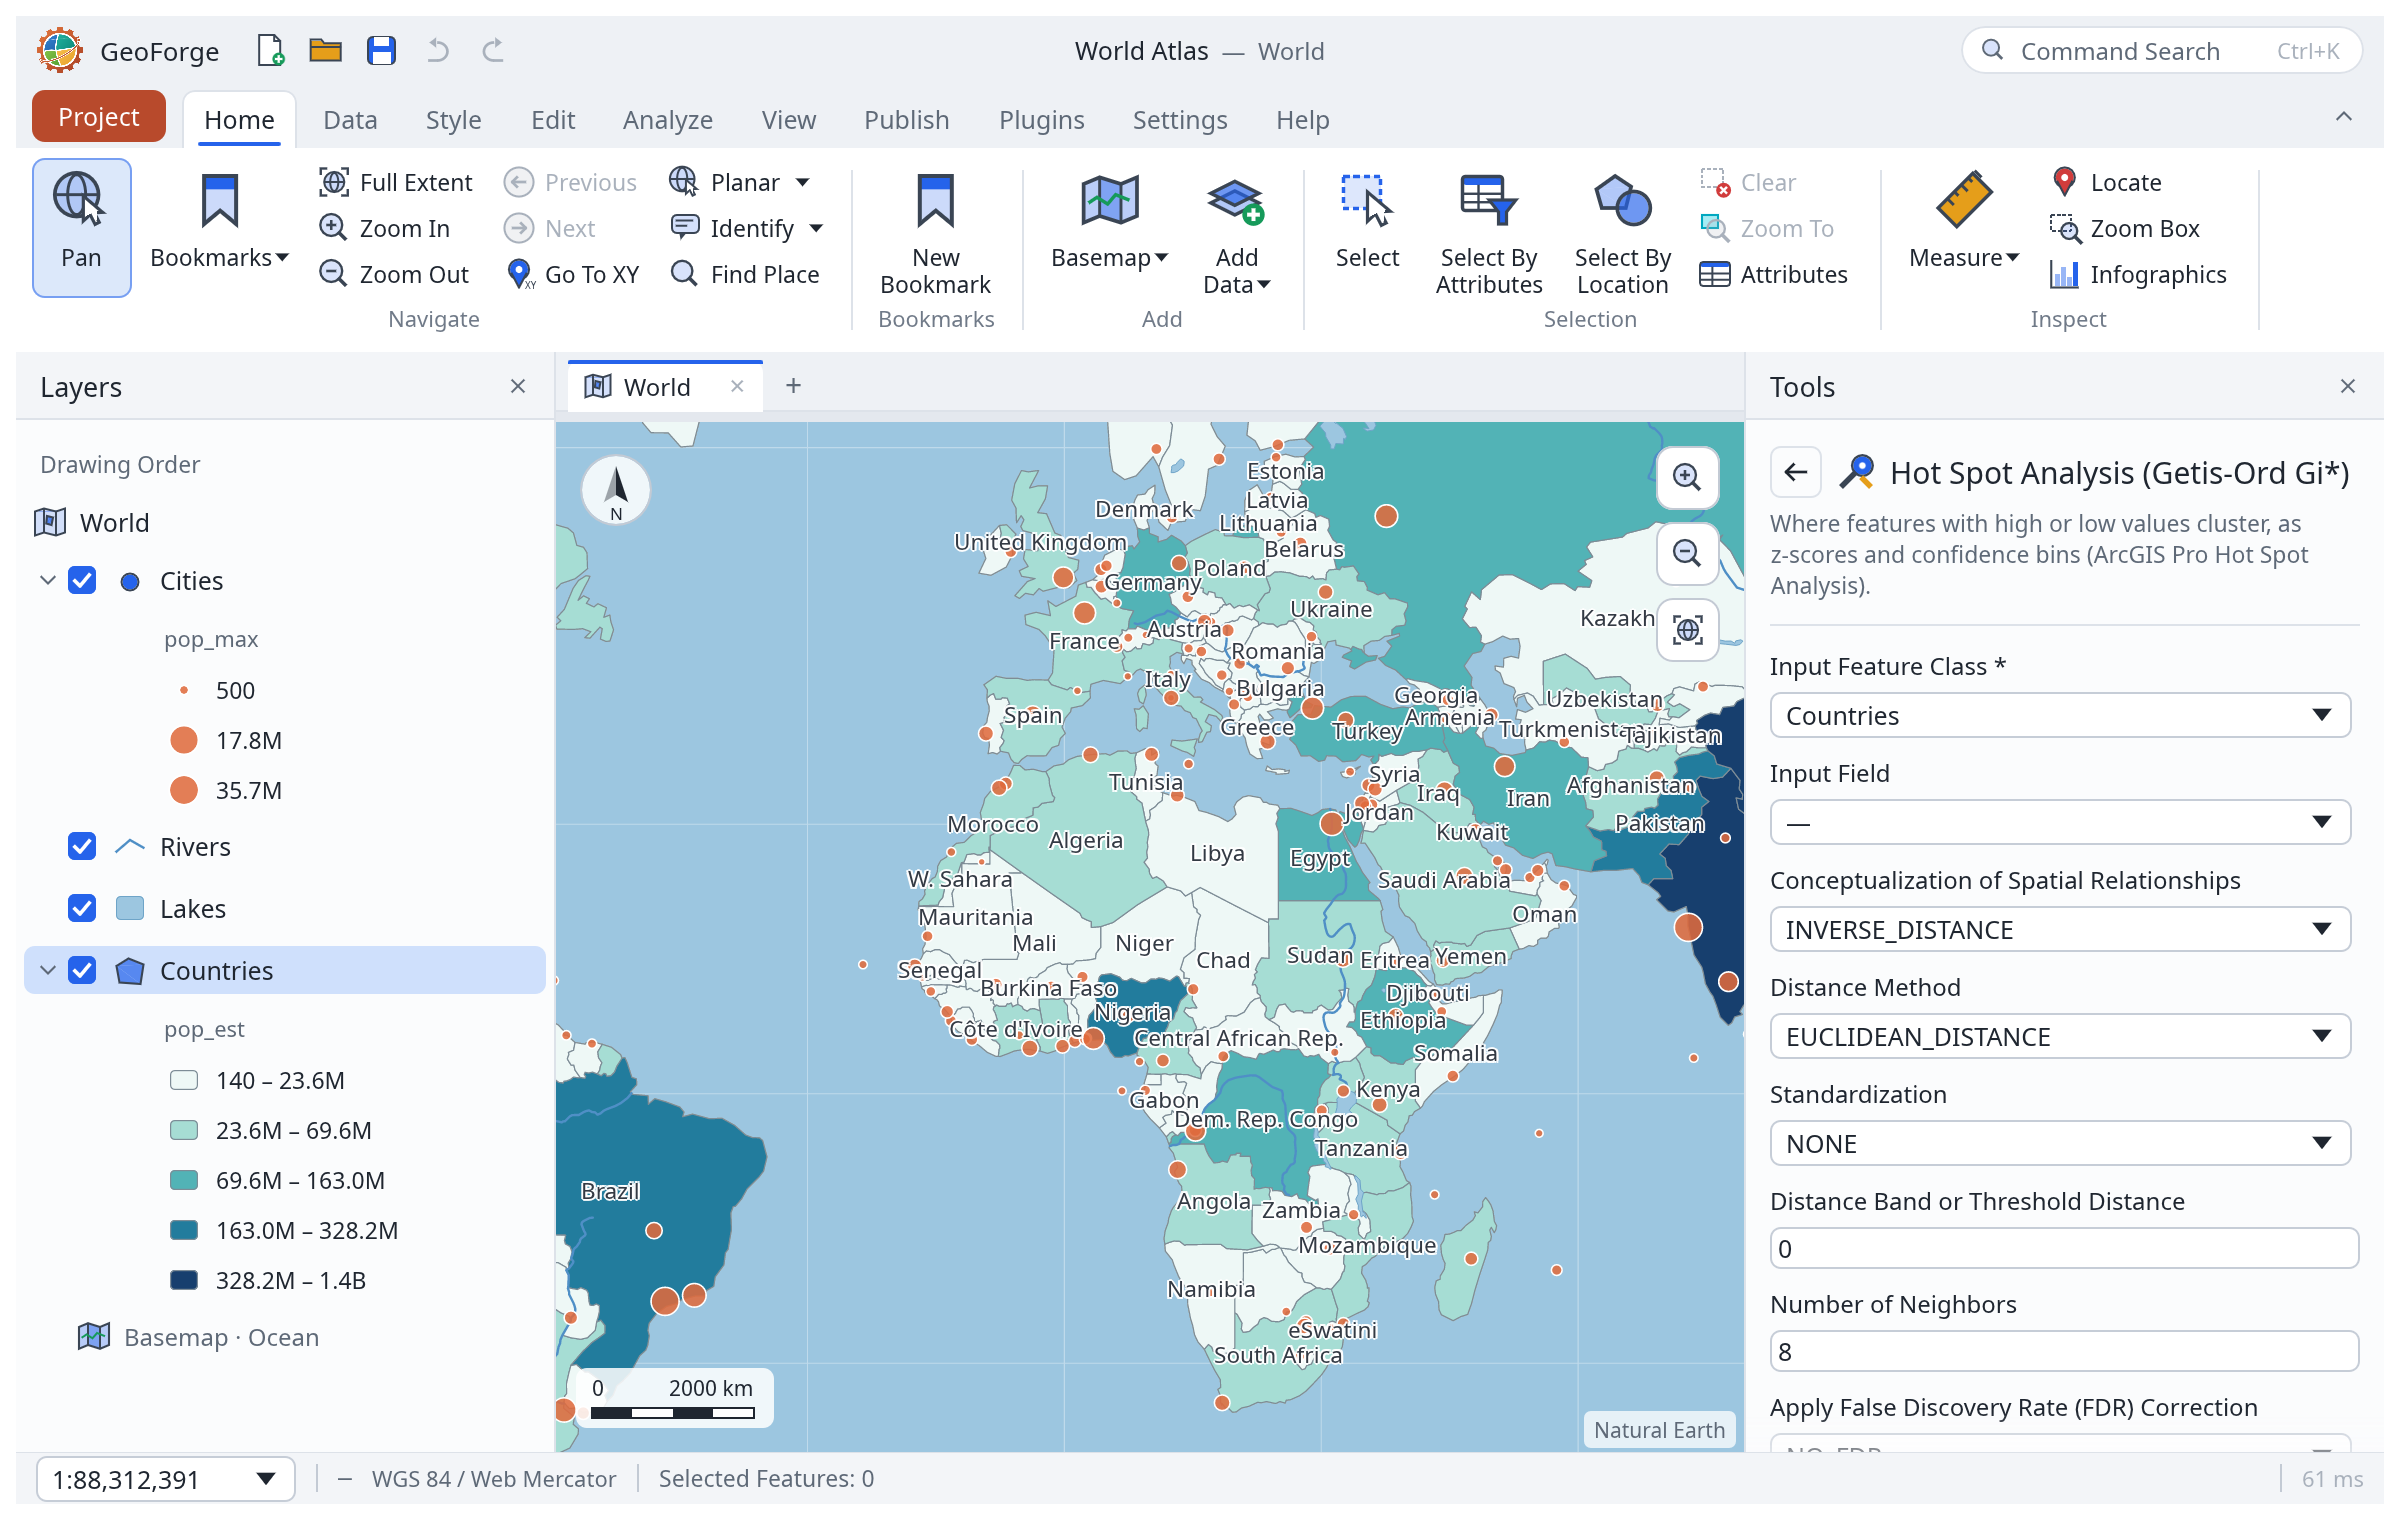
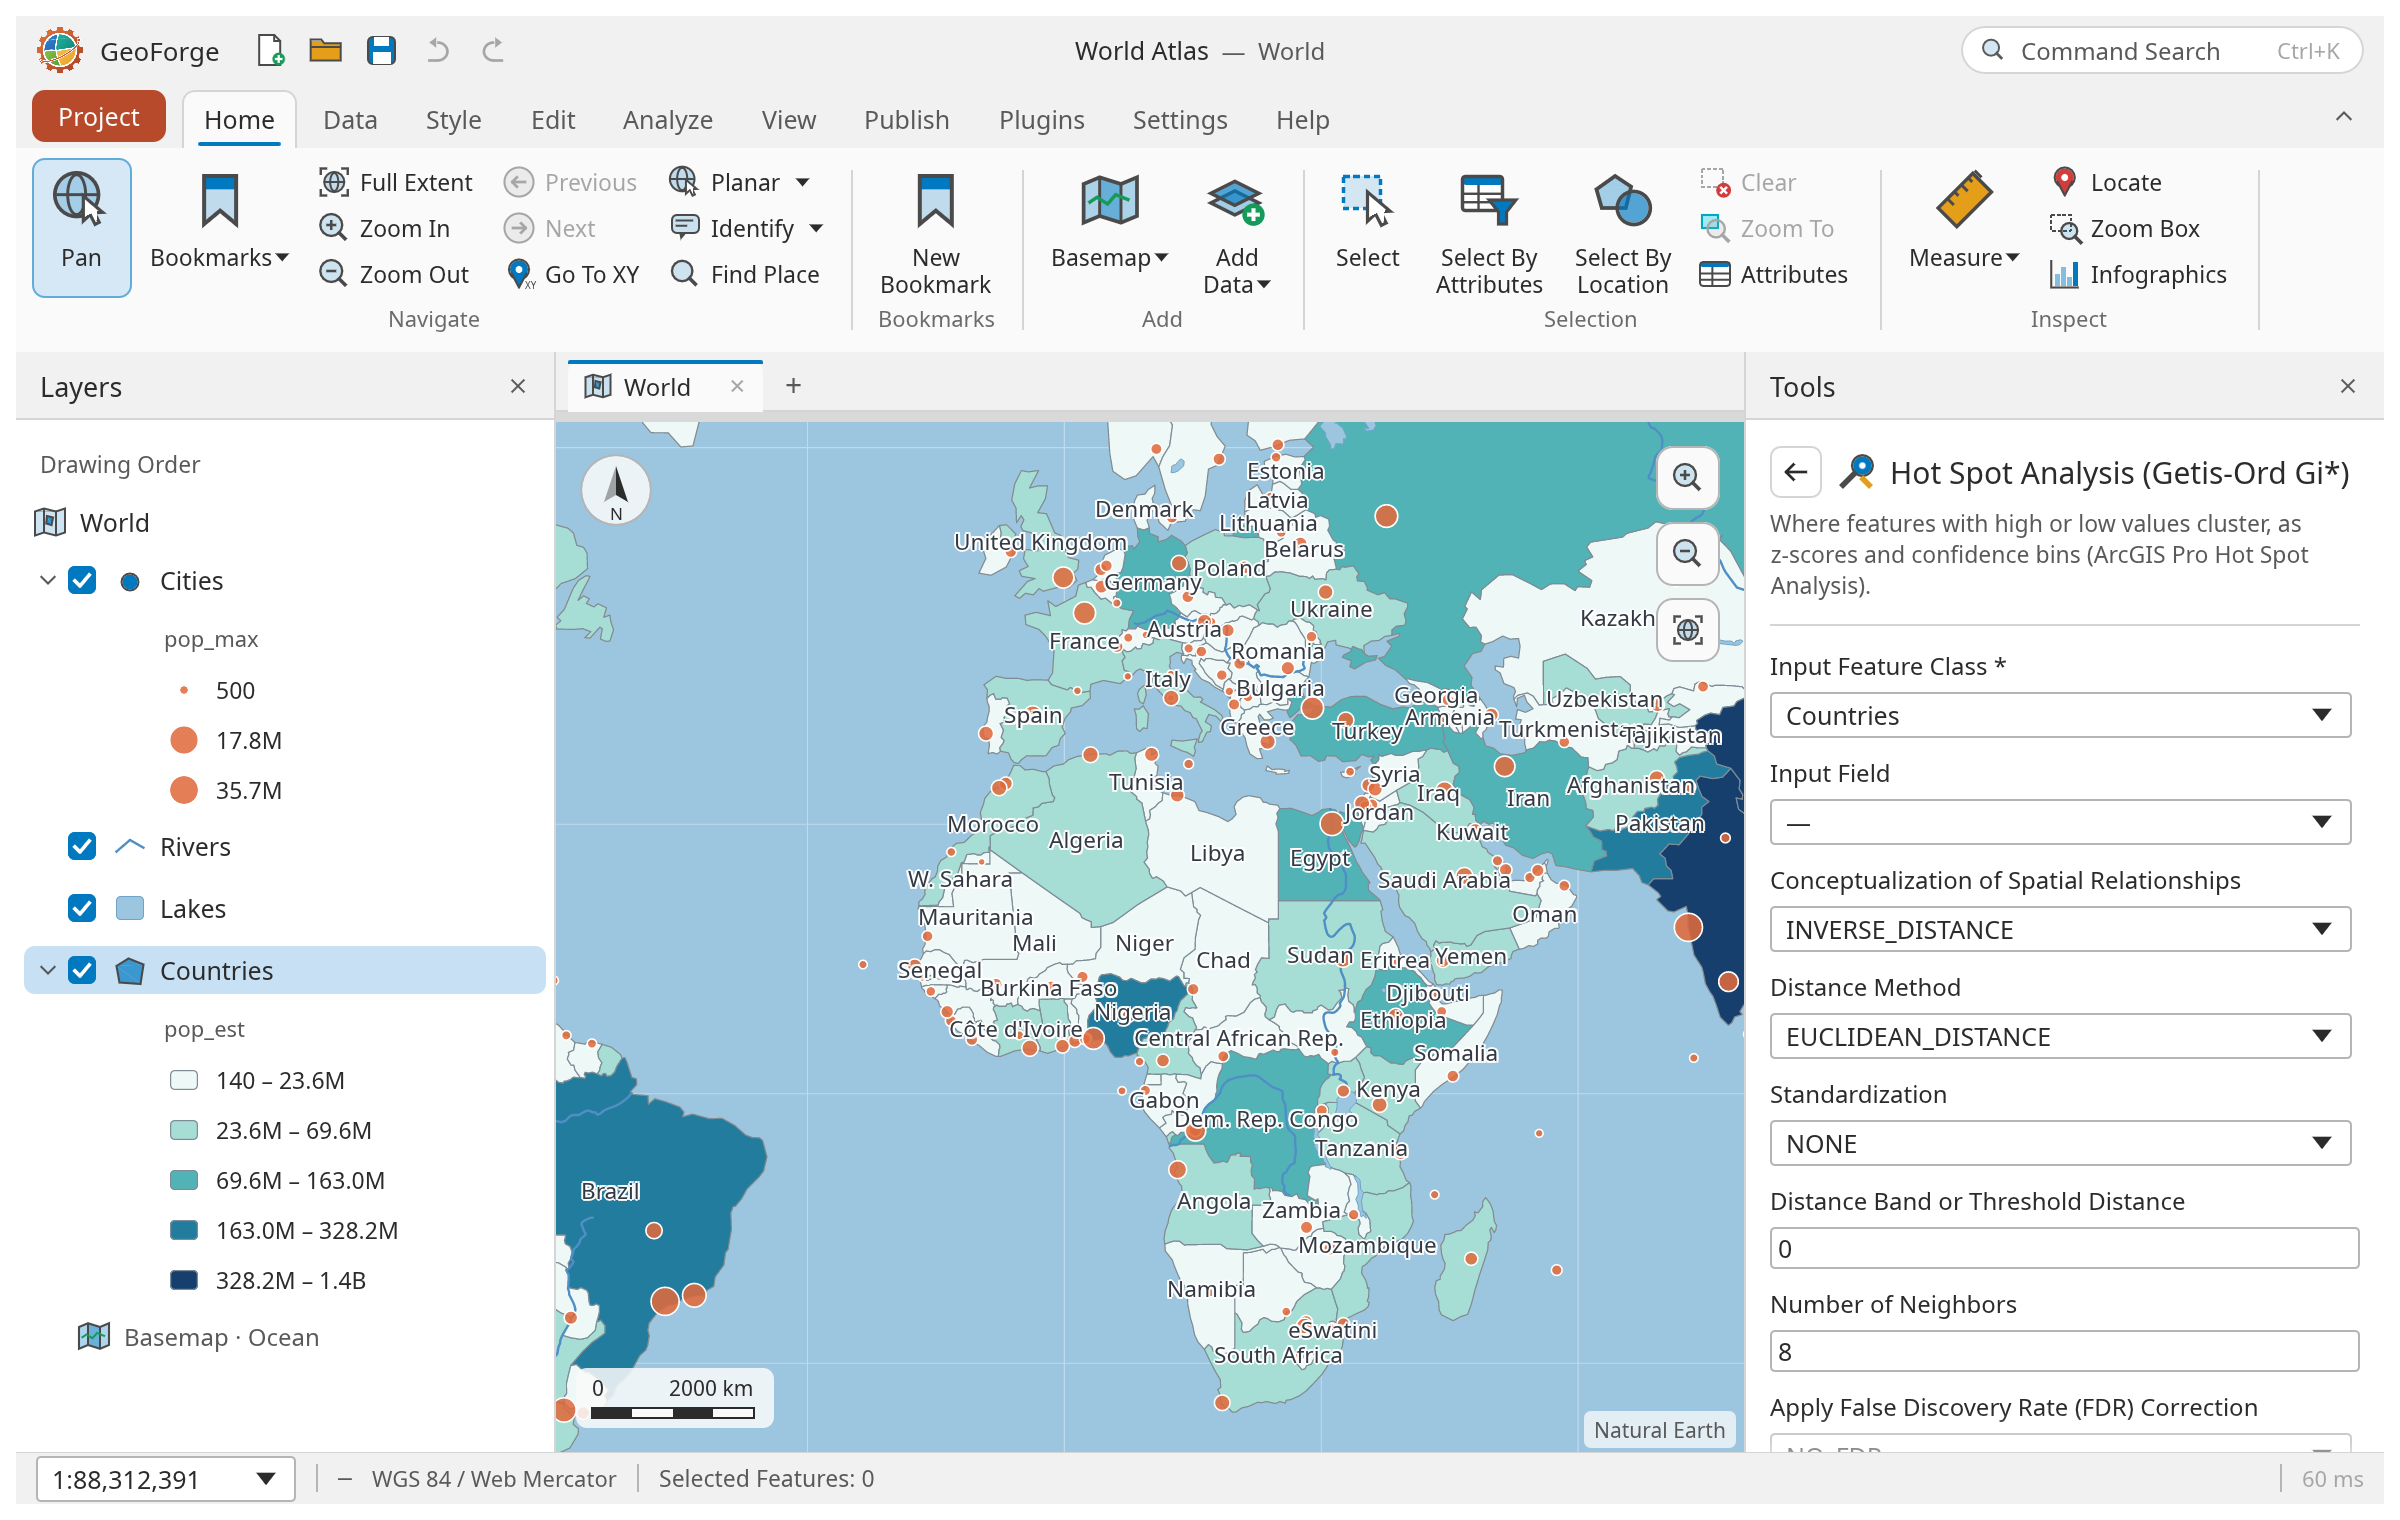
GUI: GeoForge (ArcGIS Pro style) theme is the default, classic theme behind Toggle Classic Theme (persisted); square Pro radii; screenshots regenerated
Claude-Session: https://claude.ai/code/session_01Xv6vk1AHZjJFudJn5EHAgn

diff --git a/app/crates/ui-egui/src/theme.rs b/app/crates/ui-egui/src/theme.rs
@@ -7,6 +7,17 @@ use egui::{Color32, CornerRadius, FontData, FontDefinitions, FontFamily, FontId,
 /// GeoForge brand colour (the Project tab and the logo) and its lighter tint.
 pub const BRAND: Color32 = Color32::from_rgb(0xB8, 0x4A, 0x2C);
 pub const BRAND_DARK: Color32 = Color32::from_rgb(0x96, 0x3A, 0x22);
+static PRO: std::sync::atomic::AtomicBool = std::sync::atomic::AtomicBool::new(true);
+
+/// Whether the GeoForge (ArcGIS Pro style) theme is in use rather than the classic one.
+pub fn pro() -> bool {
+    PRO.load(std::sync::atomic::Ordering::Relaxed)
+}
+
+pub fn set_pro(on: bool) {
+    PRO.store(on, std::sync::atomic::Ordering::Relaxed);
+}
+
 /// Contextual tab group colour (Feature Layer, Labeling, Data).
 pub const CONTEXT: Color32 = Color32::from_rgb(0x0E, 0x93, 0x84);
 
@@ -47,7 +58,16 @@ pub struct Tokens {
 }
 
 impl Tokens {
+    /// The GeoForge (ArcGIS Pro style) palette unless the classic one is chosen.
     pub fn light() -> Self {
+        if pro() { crate::theme_pro::light() } else { Self::classic_light() }
+    }
+
+    pub fn dark() -> Self {
+        if pro() { crate::theme_pro::dark() } else { Self::classic_dark() }
+    }
+
+    pub fn classic_light() -> Self {
         Tokens {
             dark: false,
             header: Color32::from_rgb(0xEE, 0xF1, 0xF5),
@@ -83,7 +103,7 @@ impl Tokens {
         }
     }
 
-    pub fn dark() -> Self {
+    pub fn classic_dark() -> Self {
         Tokens {
             dark: true,
             header: Color32::from_rgb(0x17, 0x1B, 0x21),
@@ -177,8 +197,13 @@ pub fn apply(ctx: &egui::Context, t: &Tokens) {
     v.extreme_bg_color = t.input;
     v.faint_bg_color = t.pane_header;
     v.window_stroke = Stroke::new(1.0, t.border_strong);
-    v.window_corner_radius = CornerRadius::same(10);
-    v.menu_corner_radius = CornerRadius::same(8);
+    let (window_r, menu_r, control_r) = if pro() {
+        (crate::theme_pro::radius::POPUP, crate::theme_pro::radius::POPUP, crate::theme_pro::radius::CONTROL)
+    } else {
+        (10, 8, 5)
+    };
+    v.window_corner_radius = CornerRadius::same(window_r);
+    v.menu_corner_radius = CornerRadius::same(menu_r);
     v.selection.bg_fill = t.selection;
     v.selection.stroke = Stroke::new(1.0, t.accent);
     v.hyperlink_color = t.accent_text;
@@ -190,16 +215,16 @@ pub fn apply(ctx: &egui::Context, t: &Tokens) {
     v.widgets.inactive.weak_bg_fill = t.input;
     v.widgets.inactive.bg_stroke = Stroke::new(1.0, t.input_border);
     v.widgets.inactive.fg_stroke = Stroke::new(1.0, t.text);
-    v.widgets.inactive.corner_radius = CornerRadius::same(5);
+    v.widgets.inactive.corner_radius = CornerRadius::same(control_r);
     v.widgets.hovered.bg_fill = t.hover;
     v.widgets.hovered.weak_bg_fill = t.hover;
     v.widgets.hovered.bg_stroke = Stroke::new(1.0, t.border_strong);
     v.widgets.hovered.fg_stroke = Stroke::new(1.0, t.text);
-    v.widgets.hovered.corner_radius = CornerRadius::same(5);
+    v.widgets.hovered.corner_radius = CornerRadius::same(control_r);
     v.widgets.active.bg_fill = t.pressed;
     v.widgets.active.weak_bg_fill = t.pressed;
     v.widgets.active.fg_stroke = Stroke::new(1.0, t.text);
-    v.widgets.active.corner_radius = CornerRadius::same(5);
+    v.widgets.active.corner_radius = CornerRadius::same(control_r);
     v.widgets.open.bg_fill = t.pressed;
     v.widgets.open.weak_bg_fill = t.pressed;
     v.popup_shadow = egui::Shadow { offset: [0, 6], blur: 18, spread: 0, color: t.shadow };

diff --git a/app/crates/ui-egui/src/lib.rs b/app/crates/ui-egui/src/lib.rs
@@ -33,7 +33,6 @@ mod sqlpane;
 mod stacui;
 mod table;
 pub mod theme;
-#[allow(dead_code)]
 pub mod theme_pro;
 mod update;
 mod widgets;
@@ -406,7 +405,7 @@ pub struct RustGisApp {
     /// The AI Assistant's conversation and settings.
     pub assistant: assistantpane::AssistantState,
     fonts_frames: u32,
-    applied_dark: Option<bool>,
+    applied_dark: Option<(bool, bool)>,
     sent_title: String,
     pub quit_requested: bool,
     logo: Option<egui::TextureHandle>,
@@ -504,6 +503,9 @@ impl RustGisApp {
             self.ui.start_projection = p.code();
         }
         self.ui.start_extent = self.services.load_pref.as_ref().and_then(|load| load("start_extent")).and_then(|v| parse_extent(&v));
+        if let Some(style) = self.services.load_pref.as_ref().and_then(|load| load("theme_style")) {
+            theme::set_pro(style != "classic");
+        }
         if let Some(m) = self.services.load_pref.as_ref().and_then(|load| load("ribbon_minimized")) {
             self.ui.ribbon_minimized = m == "true";
         }
@@ -1043,6 +1045,13 @@ impl RustGisApp {
             "ui.theme" => {
                 self.ui.dark = p.get("dark").and_then(Value::as_bool).unwrap_or(!self.ui.dark);
                 self.ui.dark_follows_system = false;
+            }
+            "ui.themeStyle" => {
+                let pro = p.get("pro").and_then(Value::as_bool).unwrap_or(!theme::pro());
+                theme::set_pro(pro);
+                if let Some(save) = &self.services.save_pref {
+                    save("theme_style", if pro { "geoforge" } else { "classic" });
+                }
             }
             "ui.commandSearch" => self.ui.command_search = Some(String::new()),
             "ui.about" => self.ui.about = true,
@@ -2275,10 +2284,10 @@ impl RustGisApp {
         {
             self.ui.dark = system == egui::Theme::Dark;
         }
-        if self.applied_dark != Some(self.ui.dark) {
+        if self.applied_dark != Some((self.ui.dark, theme::pro())) {
             let t = if self.ui.dark { theme::Tokens::dark() } else { theme::Tokens::light() };
             theme::apply(ctx, &t);
-            self.applied_dark = Some(self.ui.dark);
+            self.applied_dark = Some((self.ui.dark, theme::pro()));
             self.map.invalidate();
         }
     }

diff --git a/app/crates/ui-egui/src/ribbon.rs b/app/crates/ui-egui/src/ribbon.rs
@@ -1362,6 +1362,18 @@ fn view_tab(app: &mut RustGisApp, ui: &mut Ui) {
         big(ui, app, "graticule", "Graticule", "Show latitude/longitude lines on the basemap.", "map.graticule", Value::Null, g, false);
         let dark = app.ui.dark;
         big(ui, app, "dark", "Dark\nMode", "Switch between light and dark themes.", "ui.theme", Value::Null, dark, false);
+        let classic = !crate::theme::pro();
+        big(
+            ui,
+            app,
+            "symbology",
+            "Classic\nTheme",
+            "Switch between the GeoForge (ArcGIS Pro style) and the classic look.",
+            "ui.themeStyle",
+            Value::Null,
+            classic,
+            false,
+        );
     });
     group(ui, "View", |ui| {
         let on = app.session.map().projection.is_globe();

diff --git a/app/crates/ui-egui/src/theme_pro.rs b/app/crates/ui-egui/src/theme_pro.rs
@@ -1,6 +1,6 @@
 //! GeoForge design tokens, "Pro" palette: neutral greys and an Esri-style blue accent, plus the
-//! spacing, radius and type scale from `docs/DESIGN.md`. Not wired into the app yet; slice 1 of the
-//! GUI plan swaps `theme::Tokens::light/dark` for these. Colours are approximations of ArcGIS Pro's
+//! spacing, radius and type scale from `docs/DESIGN.md`. In use unless the classic theme is chosen
+//! (`theme::pro`). Colours are approximations of ArcGIS Pro's
 //! look from public screenshots and documentation, not measured values.
 //! Added by GeoForge.
 

diff --git a/app/crates/ui-egui/src/chrome.rs b/app/crates/ui-egui/src/chrome.rs
@@ -414,6 +414,7 @@ pub fn command_search(app: &mut RustGisApp, ctx: &egui::Context) {
             ("ui.pane.assistant", "AI Assistant", "Analyze › AI"),
             ("ui.pane.sql", "SQL Pane", "Analyze › Workflows"),
             ("ui.theme", "Toggle Dark Mode", "View"),
+            ("ui.themeStyle", "Toggle Classic Theme", "View"),
             ("ui.exportMap", "Export Map…", "Publish › Output"),
             ("ui.checkUpdate", "Check for Updates…", "Help › Help"),
         ] {

diff --git a/app/crates/ui-egui/tests/smoke.rs b/app/crates/ui-egui/tests/smoke.rs
@@ -123,6 +123,8 @@ fn every_tab_pane_and_dialog_renders() {
         ("ui.about", json!(null)),
         ("ui.shortcuts", json!(null)),
         ("ui.theme", json!({"dark": true})),
+        ("ui.themeStyle", json!({"pro": false})),
+        ("ui.themeStyle", json!({"pro": true})),
         ("ui.backstage", json!({"open": true})),
     ] {
         h.state_mut().run(id, p).unwrap_or_else(|e| panic!("{id}: {e}"));
